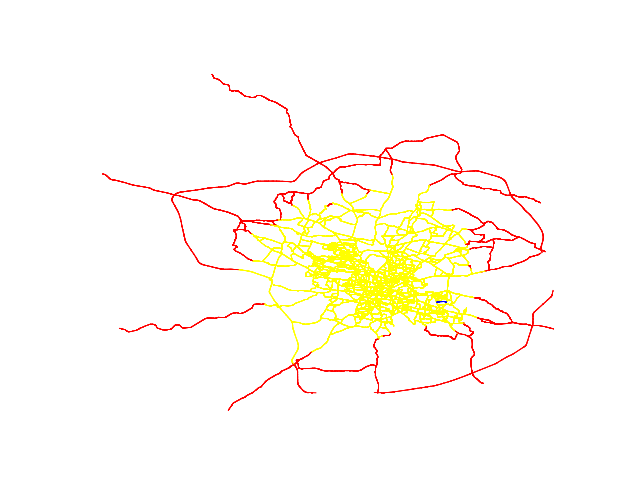
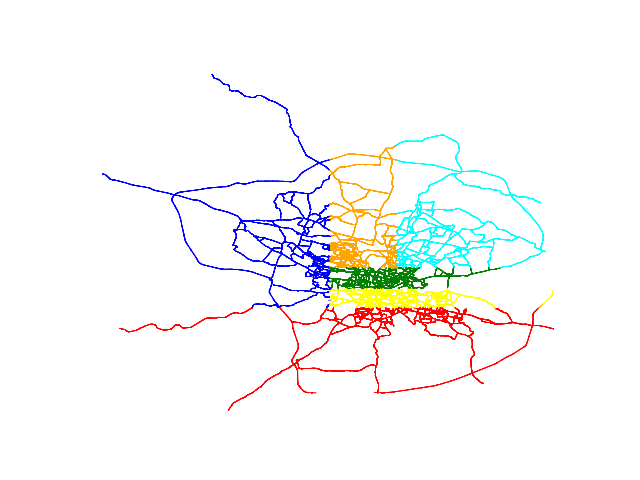
range check added

diff --git a/grid_partition/real_map/partition.py b/grid_partition/real_map/partition.py
@@ -1,5 +1,6 @@
 import numpy as np
-
+from sklearn.metrics.pairwise import haversine_distances
+from math import radians
 
 class GridPartition:
     
@@ -10,7 +11,7 @@ class GridPartition:
         
         
         self.limit = -1 # no limit set initially
-
+        self.range = 9999999    # range of a typical EV 
         self.color = ['#000000'] * _n   # all the nodes are black initially
         self.components = []    # will contain the partitions as a list of lists
         self.arr = []   # will be used while partitioning
@@ -22,6 +23,9 @@ class GridPartition:
     def setLimit(self, _a):
         self.limit = _a
 
+    def setRange(self, _a):
+        self.range = _a
+
     
     def __sub_demand(self, aux):
 
@@ -30,6 +34,7 @@ class GridPartition:
             tmp += self.demands[i]
         
         return tmp
+
 
     def __length(self, aux):
         
@@ -58,7 +63,6 @@ class GridPartition:
         for i in aux:
             b = max(b, self.coord[i][0])
 
-
         return b-a
 
 
@@ -76,20 +80,96 @@ class GridPartition:
         return res
 
 
+    def __distance(self, a, b):
+        '''This function returns distance between 2 lat-long pairs using the Haversine distance formula'''
+        c = list(map(radians, a))
+        d = list(map(radians, b))
+
+        res = haversine_distances([c, d]) * (6378100/1000) # in km
+
+        return res[0][1]
+
+
+    def __diagonalLength(self, aux):
+
+        # left top-most point
+        p1 = self.coord[aux[0]]
+
+        for i in aux:
+            pt = self.coord[i]
+
+            if pt[0] < p1[0]:
+                p1 = pt
+            
+            elif pt[1] > p1[1]:
+                p1 = pt
+
+
+        # right bottom-most point  
+        p2 = p1
+
+        for i in aux:
+            pt = self.coord[i]
+
+            if pt[0] > p2[0]:
+                p2 = pt
+            
+            elif pt[1] < p2[1]:
+                p2 = pt
+
+        return self.__distance(p1, p2)
+
+
+
 
     def __aux_partition(self, st, end):
         
         # focus on nodes in range arr[st:end]
 
-        if st > end:
-            print("st > end passed")
+        if st >= end:
+            print("st >= end passed")
             return
 
-        # first get the demand of this range
+        # first calculate the demand of this range
         d = self.__sub_demand(self.arr[st:end])
 
         if d <= self.limit: # this partition is fine
-            self.components.append(self.arr[st:end])
+            
+            # do the range-check
+            ## estimate from diagonals
+            dia = self.__diagonalLength(self.arr[st:end])
+            
+            if dia > self.range      and False:
+                print(dia, "Range partitioning needed")
+                # find the 'length'
+                t1 = self.__length(self.arr[st:end])
+                # find the 'breadth'
+                t2 = self.__breadth(self.arr[st:end])
+
+                if t1 >= t2:
+                    # do partition parallel to longitudes
+                    ## sort the points longitude-wise
+                    tmp = self.arr[st:end]
+                    tmp.sort(key=lambda x: self.coord[x][1])
+                    self.arr[st:end] = tmp
+                    
+                else:
+                    # partition parallel to latitudes
+                    ## sort the points latitude-wise
+                    tmp = self.arr[st:end]
+                    tmp.sort(key=lambda x: self.coord[x][0])
+                    self.arr[st:end] = tmp
+
+                low = st
+                high = end-1
+                mid = low + int((high-low)/2)
+
+                self.__aux_partition(st, mid+1)
+                self.__aux_partition(mid+1, end)
+
+            else:
+                self.components.append(self.arr[st:end])
+
             return
         
 
@@ -137,15 +217,15 @@ class GridPartition:
             else:
                 high = mid-1
 
-    
 
         if ind == -1:
             print(st, end)
             raise ("Couldn't find a suitable point")
 
 
-        self.__aux_partition(st, ind)
+        self.__aux_partition(st, ind+1)
         self.__aux_partition(ind+1, end)
+        
         return
     
 
@@ -162,10 +242,10 @@ class GridPartition:
 
 
     def colorPartitions(self):
-        palatte = ['red', 'blue', 'yellow', 'green', 'orange', 'cyan', 'pink', 'magenta', 'brown', 'black']
+        palatte = ['red', 'blue', 'yellow', 'green', 'orange', 'cyan', 'pink', 'magenta', 'brown', 'black', 'gold', 'silver', 'platinum']
         
         a = 0
-        
+
         for arr in self.components:
             for i in arr:
                 self.color[i] = palatte[a]

diff --git a/grid_partition/real_map/main.py b/grid_partition/real_map/main.py
@@ -22,10 +22,11 @@ td = pr.totalDemand()
 
 print('Limit =', td/6)
 pr.setLimit(td/6)
+pr.setRange(15)
 
 pr.partition()
 
-print(len(pr.components))
+print('Number of partitions =', len(pr.components))
 
 
 # print('Partitioning...')
@@ -40,5 +41,9 @@ print(len(pr.components))
 # color_components(d, color)
 # refine_components(d, graph, demands, color, P)
 
-print('Plotting...')
-plot_graph(graph, coord, pr.color, 'partitioned.png')
+# pr.colorPartitions()
+
+# print('Plotting...')
+# plot_graph(graph, coord, pr.color, 'partitioned.png')
+
+
